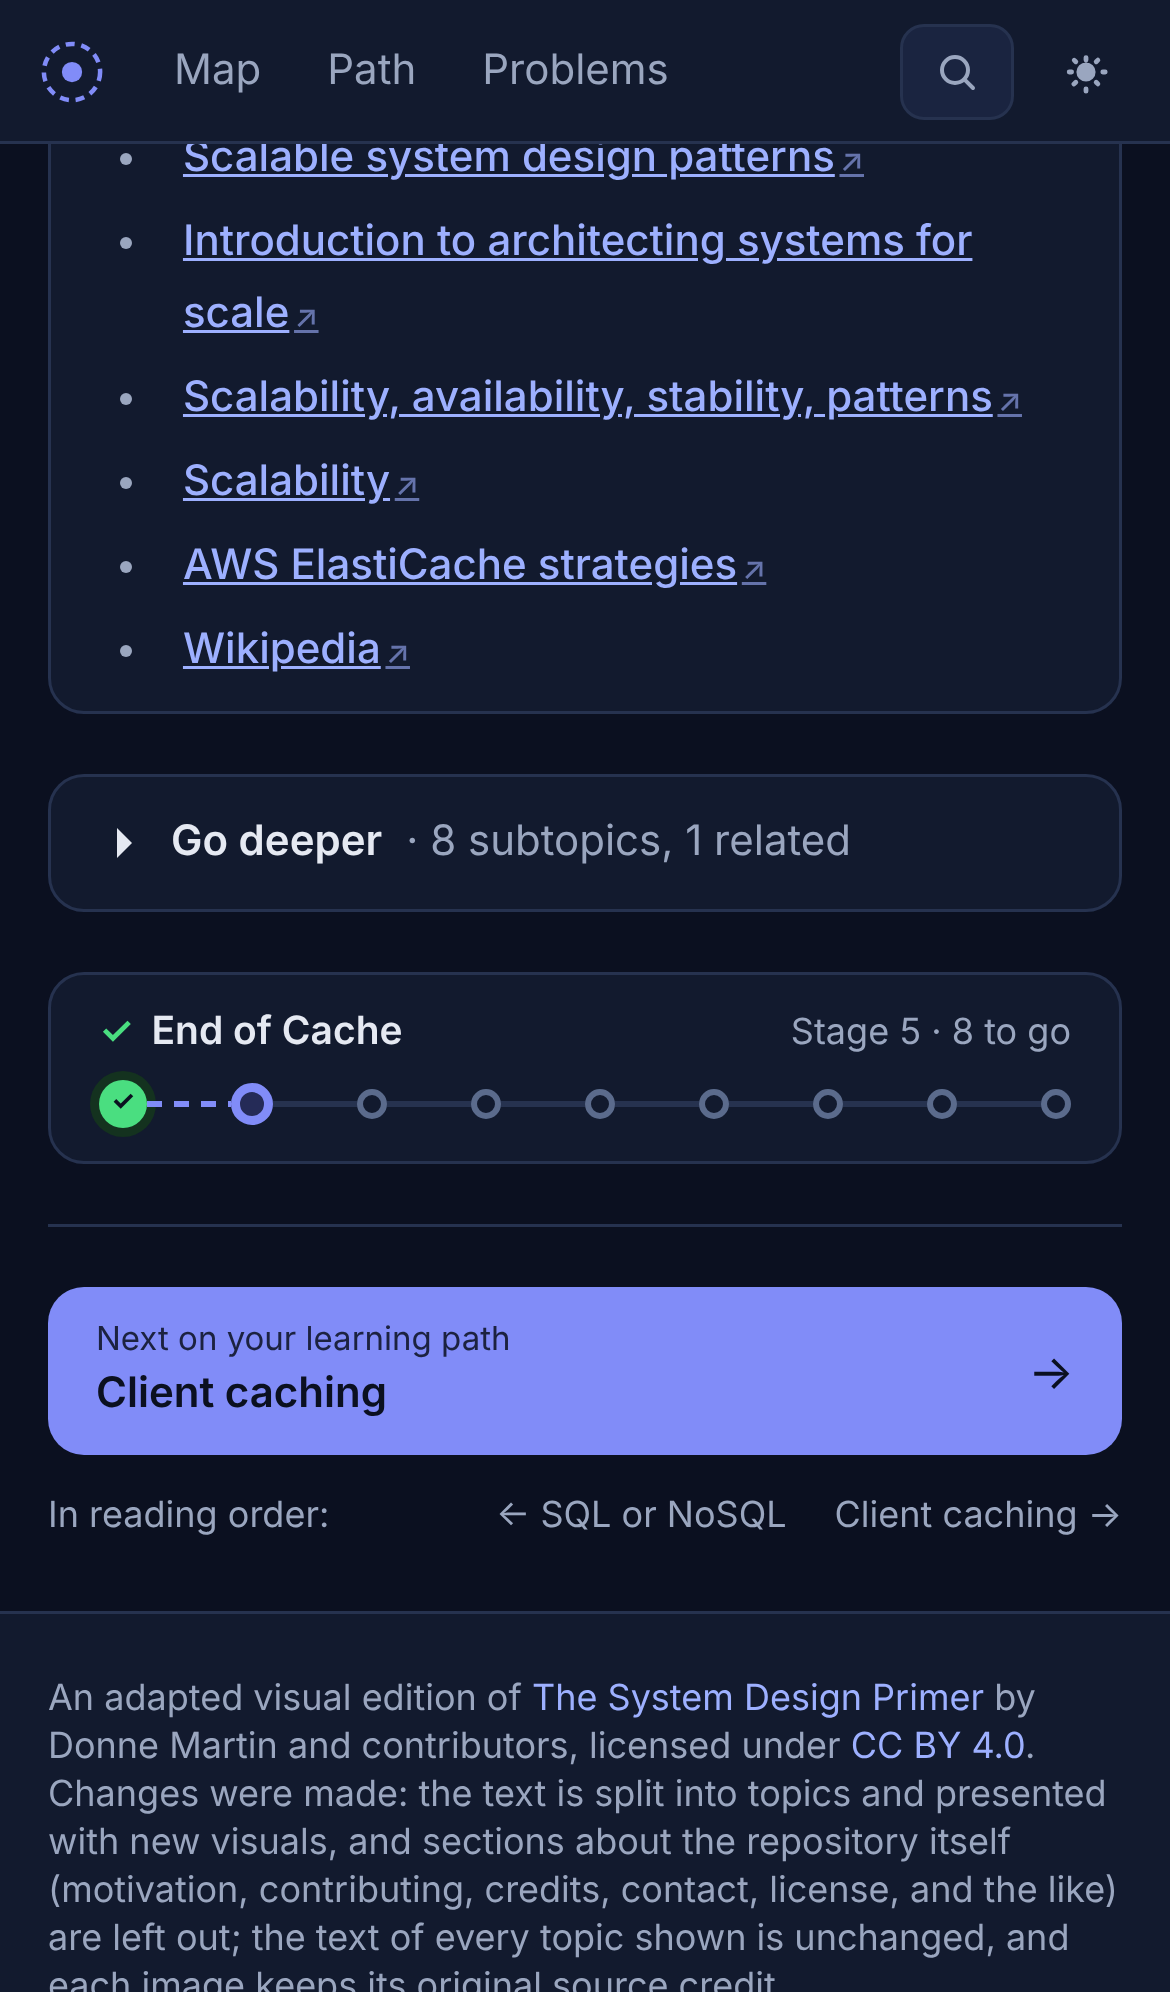
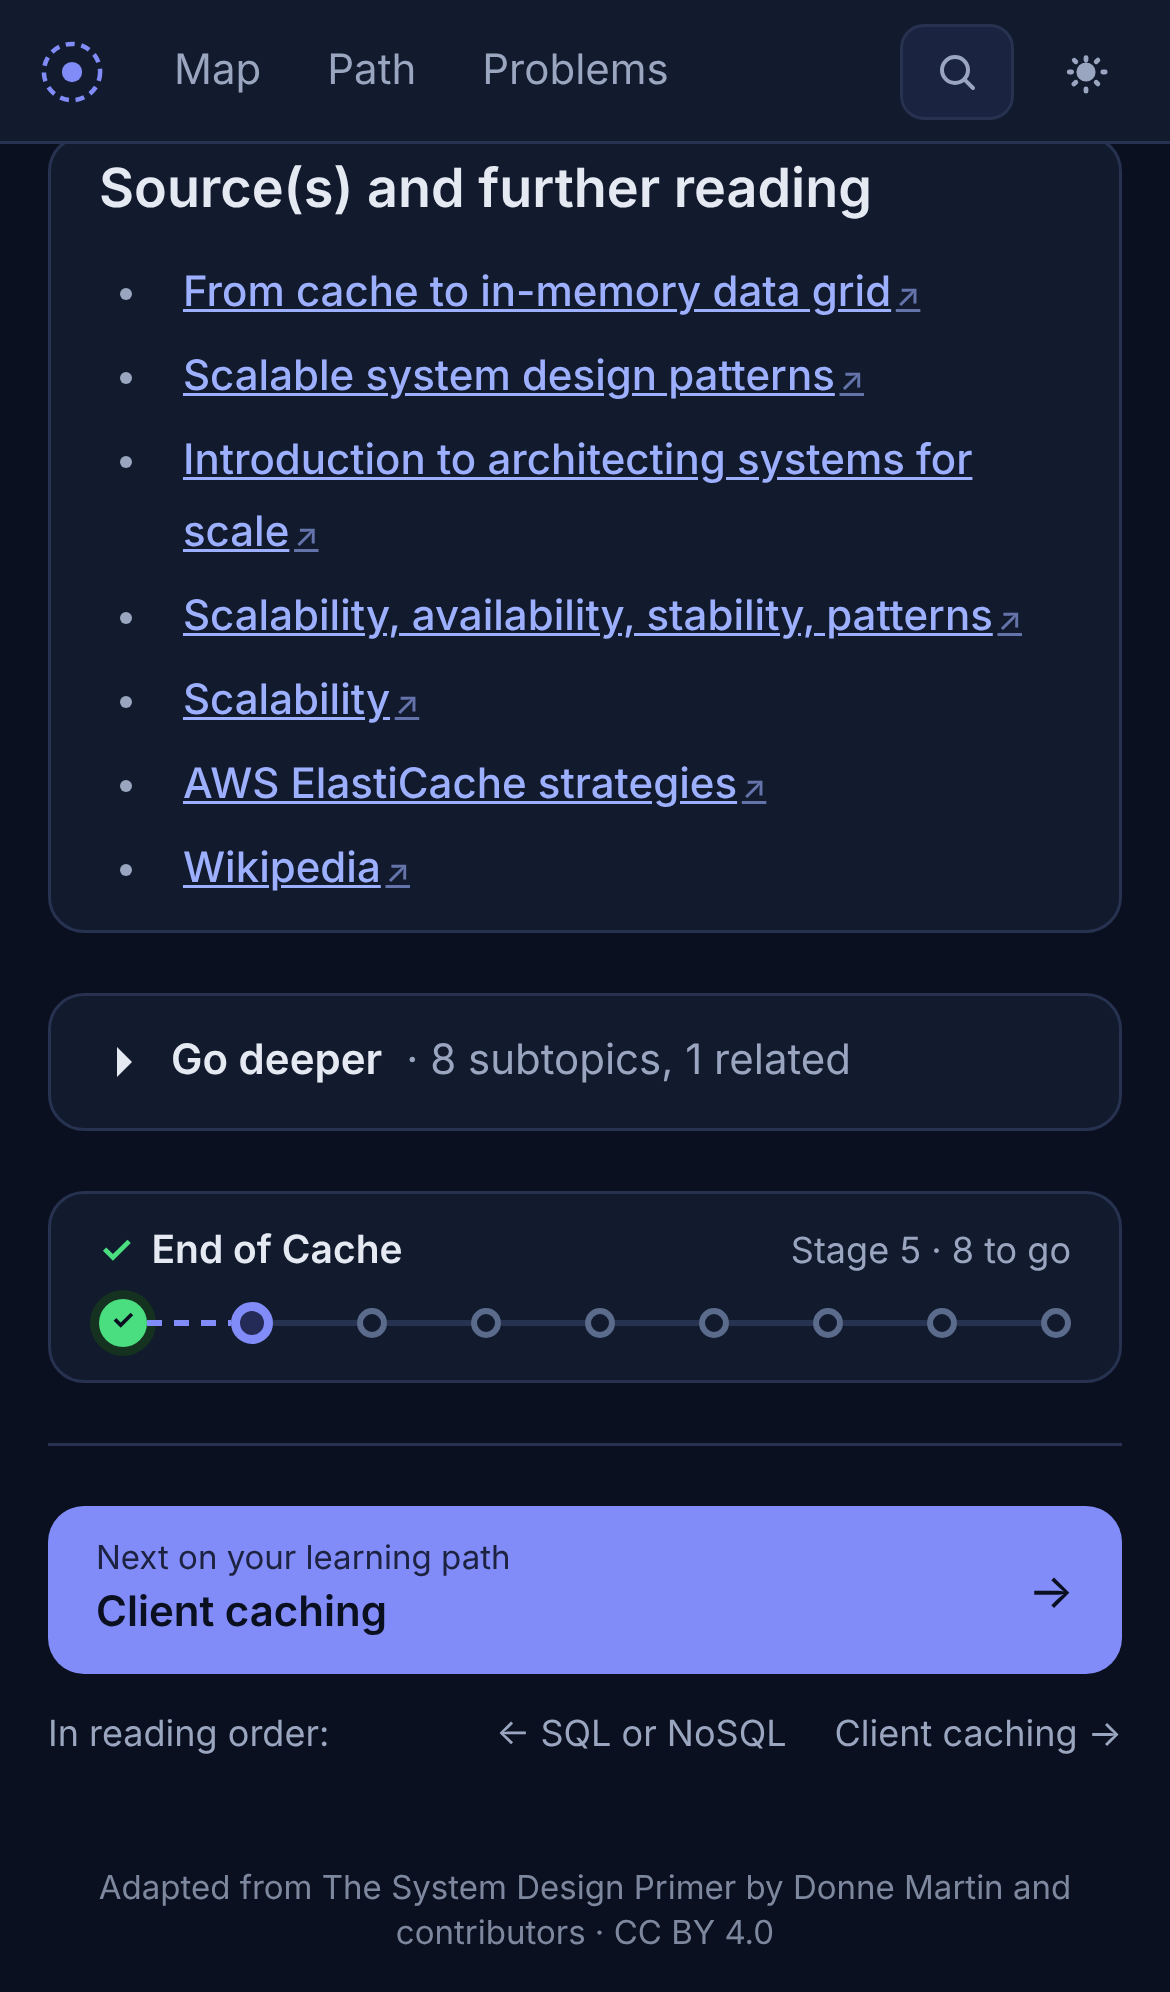
Keep the end row at the bottom on short pages
The page grid fills the screen height on wide screens and the stage
ribbon is pushed to the bottom of the text column, so it lines up with
the Previous/Next cards even when the side panel is taller than the
text.

Claude-Session: https://claude.ai/code/session_012hVuGroYHB7edP1rEvEZnx

diff --git a/src/topic/TopicPage.tsx b/src/topic/TopicPage.tsx
@@ -122,7 +122,7 @@ export function TopicPage() {
       {/* Wide screens: path navigator | text | side panel, with Previous / Next fixed at the bottom of the side
           columns. They settle into the end row beside the stage ribbon when you reach the end of the page. */}
       <div
-        className="mx-auto grid w-full max-w-[920px] grid-cols-1 gap-8 px-4 py-6 md:px-6 xl:max-w-[1380px] xl:grid-cols-[230px_minmax(0,760px)_270px] xl:justify-center"
+        className="mx-auto grid w-full max-w-[920px] grid-cols-1 gap-8 px-4 py-6 md:px-6 xl:max-w-[1380px] xl:flex-1 xl:grid-cols-[230px_minmax(0,760px)_270px] xl:justify-center"
         data-topic-id={node.id}
       >
         {/* Both side panels sit dimmed so the text in the middle has the focus; hovering or tabbing in lifts them. */}
@@ -193,7 +193,11 @@ export function TopicPage() {
             <GoDeeper node={node} hideSubtopics={hideSubs} />
           </div>
           {/* The ribbon ends the page; on narrow screens the next step follows it (on wide ones it is the fixed card). */}
-          <StageRibbon node={node} />
+          {/* Pushed to the bottom on wide screens, so it lines up with the Previous / Next cards even when a side
+              panel is taller than the text. */}
+          <div className="xl:mt-auto">
+            <StageRibbon node={node} />
+          </div>
           <div className="xl:hidden">
             <NextNav node={node} />
           </div>

diff --git a/docs/PLAN.md b/docs/PLAN.md
@@ -1016,3 +1016,10 @@ The layout was chosen from mockups on the design canvas.
   Design Primer by Donne Martin and contributors · CC BY 4.0". The Primer's licence needs the credit, the licence
   link and a note that it was changed ("Adapted"), so this line stays. The Primer link points at the pinned commit.
   Screenshots: `docs/screenshots/footer-*.png`.
+
+### End row on short pages (reader feedback)
+
+- On a page shorter than its side panel or the screen, the stage ribbon used to end with the text while Previous /
+  Next sat lower. On wide screens the page now fills the screen height and the ribbon is pushed to the bottom, so the
+  three always sit together at the bottom of the screen, just above the footer (measured the same 773–837 px at
+  1860×900 on a short, a medium and a long page). Screenshot: `docs/screenshots/short-page-end.png`.
